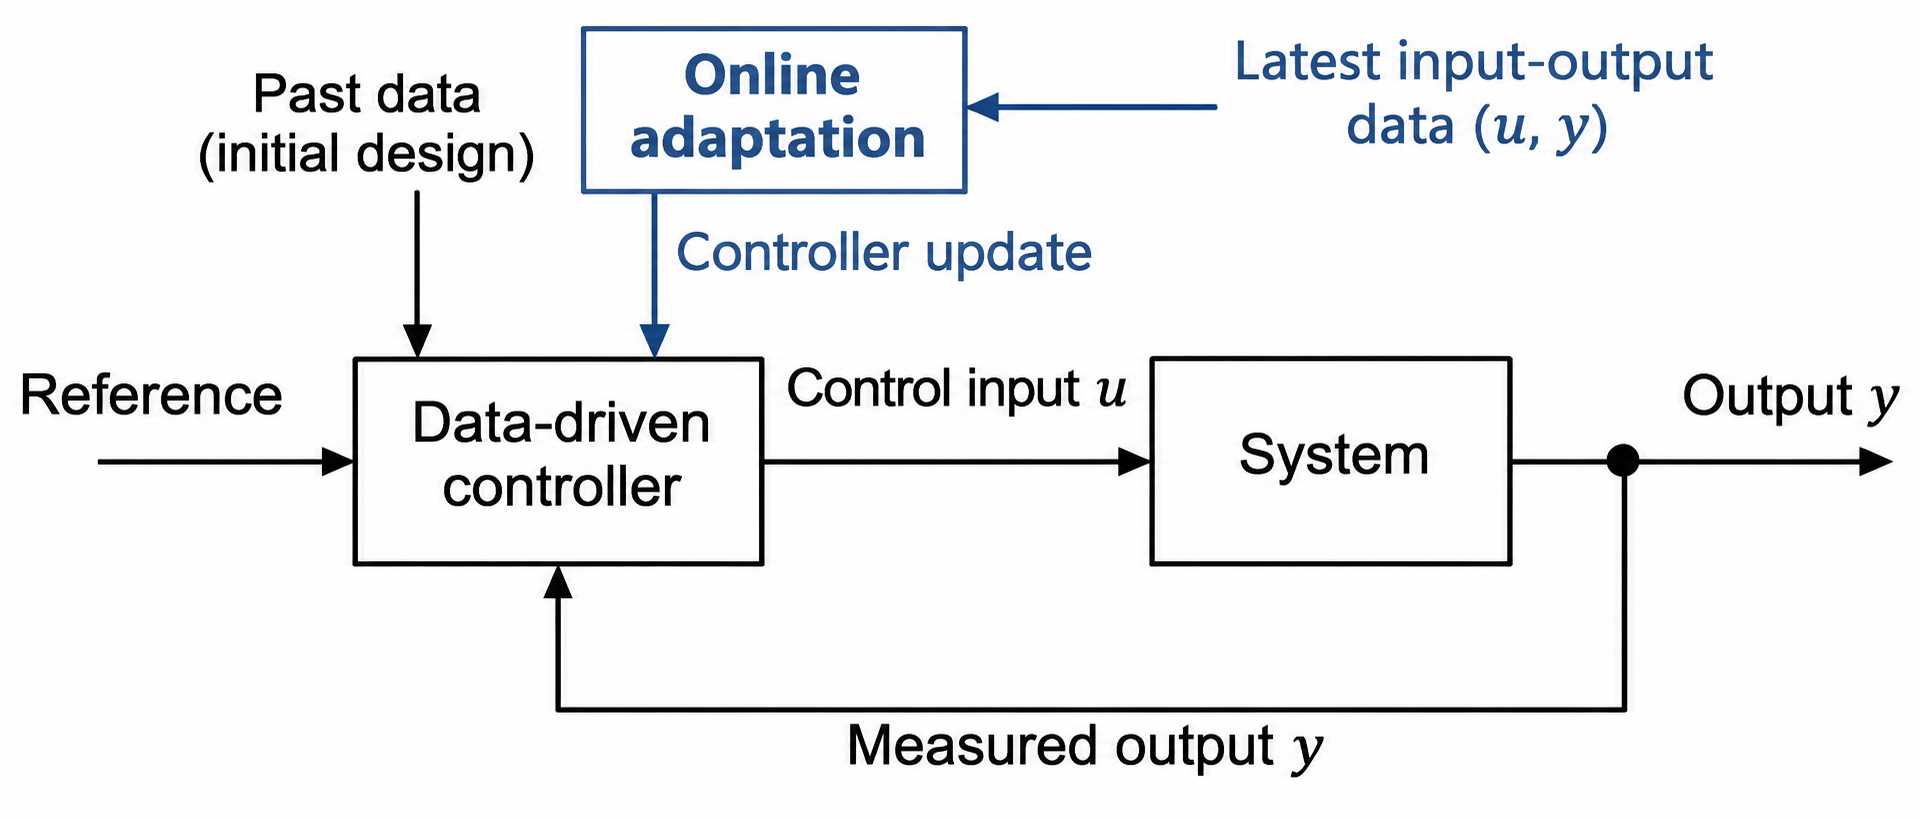
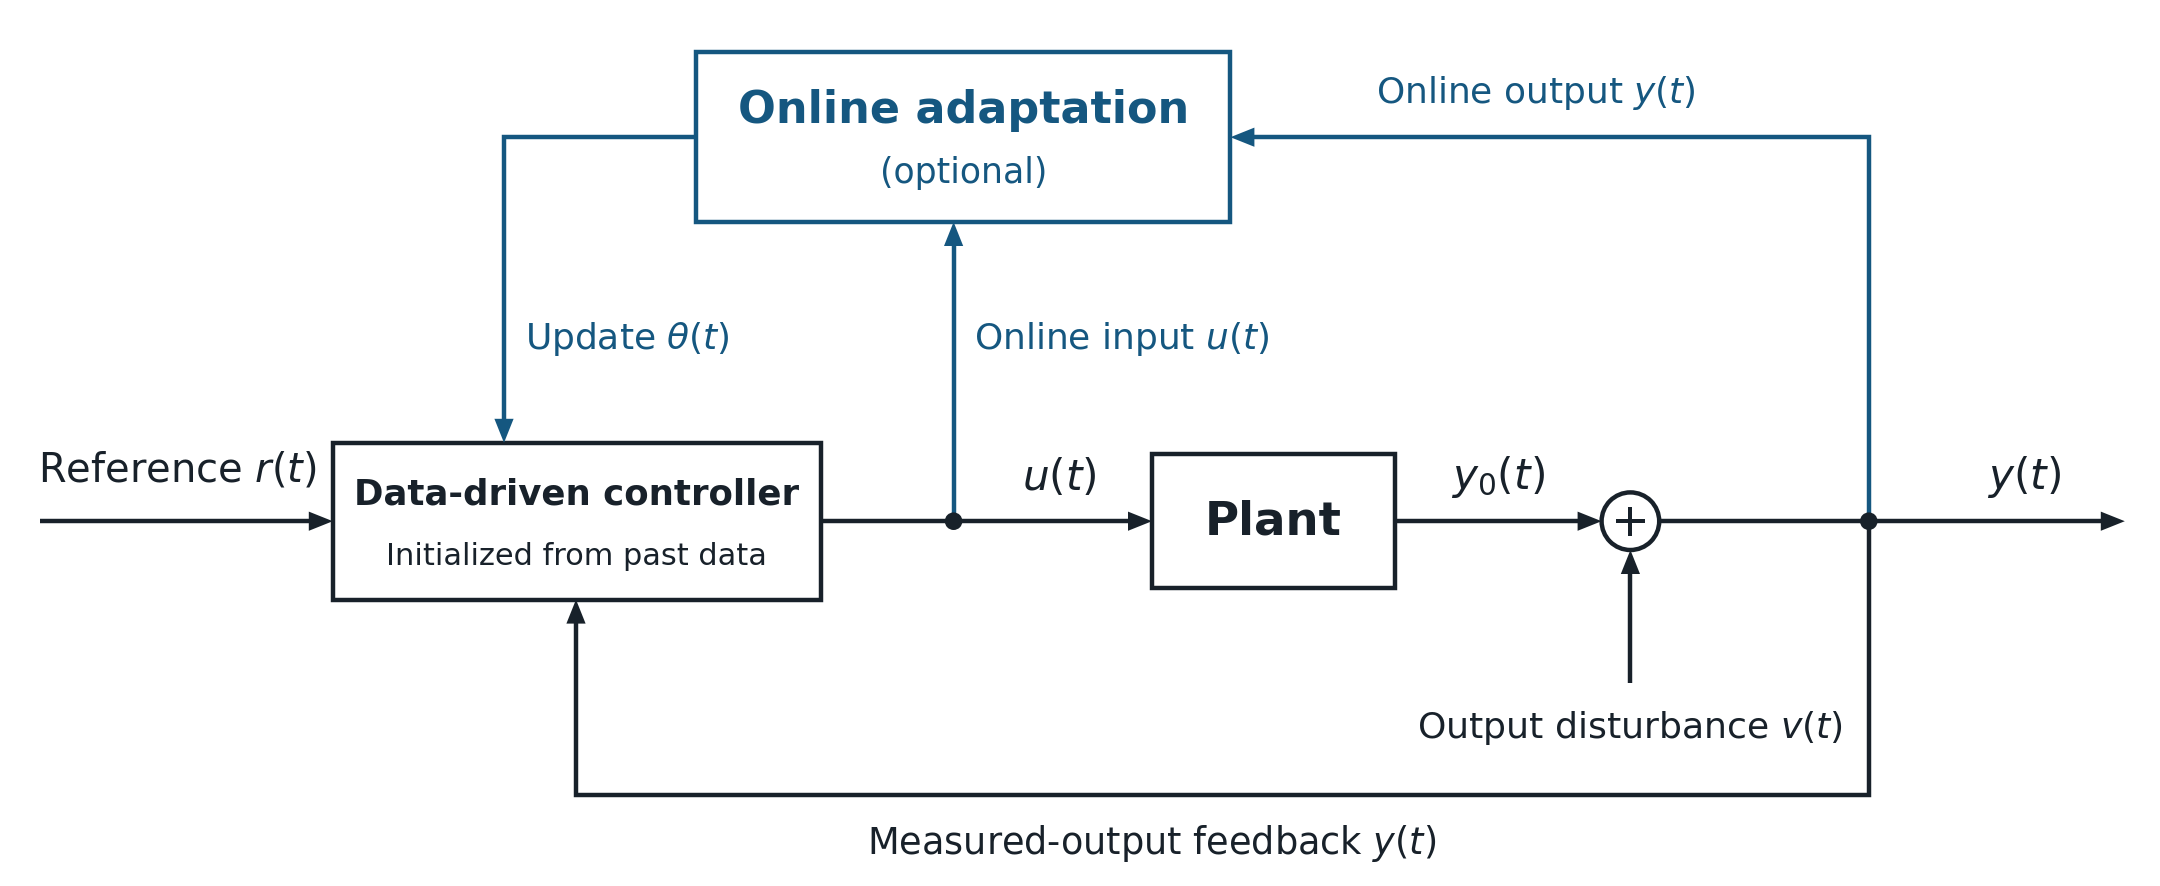
Draw disturbance, reference and explicit adaptation signal paths

Changed region(s): [[0.0, 0.0305, 1.0, 0.9768], [0.5938, 0.4274, 0.8125, 0.4579]]

diff --git a/research.html b/research.html
@@ -39,7 +39,7 @@ Guangdong, China</p>
 </section>
 <section class="section research-topic" id="control-and-decision-making">
 <h2><a href="research-control-and-decision-making.html">Data-driven control and decision-making</a></h2>
-<div class="research-grid"><a class="research-figure" href="research-control-and-decision-making.html" aria-label="Data-driven control and decision-making"><img src="assets/research/data-driven-control-block-diagram.png?v=online-adaptation" alt="Past data informs the initial controller design. Measured output feeds back to the controller, and an online adaptation step can use recent control inputs and measured outputs to update the control law." width="1920" height="819" loading="lazy"></a><div class="research-description"><p>Data-driven model predictive control, stochastic adaptive control, iterative learning control, online decision-making, and reinforcement learning.</p><p class="research-more"><a href="research-control-and-decision-making.html">Related publications <span aria-hidden="true">→</span></a></p></div></div>
+<div class="research-grid"><a class="research-figure" href="research-control-and-decision-making.html" aria-label="Data-driven control and decision-making"><img src="assets/research/data-driven-control-block-diagram.png?v=disturbance-and-signal-taps" alt="The controller takes the reference r(t) and measured output y(t) and applies u(t) to the plant. Adding the disturbance v(t) to the plant output y₀(t) gives y(t). Separate branches from u(t) and y(t) feed an optional online adaptation block, which sends updated parameters θ(t) to the controller." width="2160" height="886" loading="lazy"></a><div class="research-description"><p>Data-driven model predictive control, stochastic adaptive control, iterative learning control, online decision-making, and reinforcement learning.</p><p class="research-more"><a href="research-control-and-decision-making.html">Related publications <span aria-hidden="true">→</span></a></p></div></div>
 </section>
 <section class="section research-topic" id="physics-informed-modeling">
 <h2><a href="research-physics-informed-modeling.html">Physics-informed modeling</a></h2>

diff --git a/research-control-and-decision-making.html b/research-control-and-decision-making.html
@@ -33,7 +33,7 @@ Guangdong, China</p>
 </aside>
 <main id="main">
 <div class="page-heading"><nav class="links" aria-label="Breadcrumb"><a href="research.html">Research</a><span aria-hidden="true">/</span><span>Data-driven control and decision-making</span></nav><h1>Data-driven control and decision-making</h1><p>Data-driven model predictive control, stochastic adaptive control, iterative learning control, online decision-making, and reinforcement learning.</p></div>
-<div class="topic-intro"><figure class="research-figure"><a href="assets/research/data-driven-control-block-diagram.png?v=online-adaptation" title="Open full-size block diagram"><img src="assets/research/data-driven-control-block-diagram.png?v=online-adaptation" alt="Past data informs the initial controller design. Measured output feeds back to the controller, and an online adaptation step can use recent control inputs and measured outputs to update the control law." width="1920" height="819" loading="lazy"></a></figure></div>
+<div class="topic-intro"><figure class="research-figure"><a href="assets/research/data-driven-control-block-diagram.png?v=disturbance-and-signal-taps" title="Open full-size block diagram"><img src="assets/research/data-driven-control-block-diagram.png?v=disturbance-and-signal-taps" alt="The controller takes the reference r(t) and measured output y(t) and applies u(t) to the plant. Adding the disturbance v(t) to the plant output y₀(t) gives y(t). Separate branches from u(t) and y(t) feed an optional online adaptation block, which sends updated parameters θ(t) to the controller." width="2160" height="886" loading="lazy"></a></figure></div>
 <section class="section" id="journals">
 <h2>Journal papers</h2>
 <ol class="rows numbered-list">
